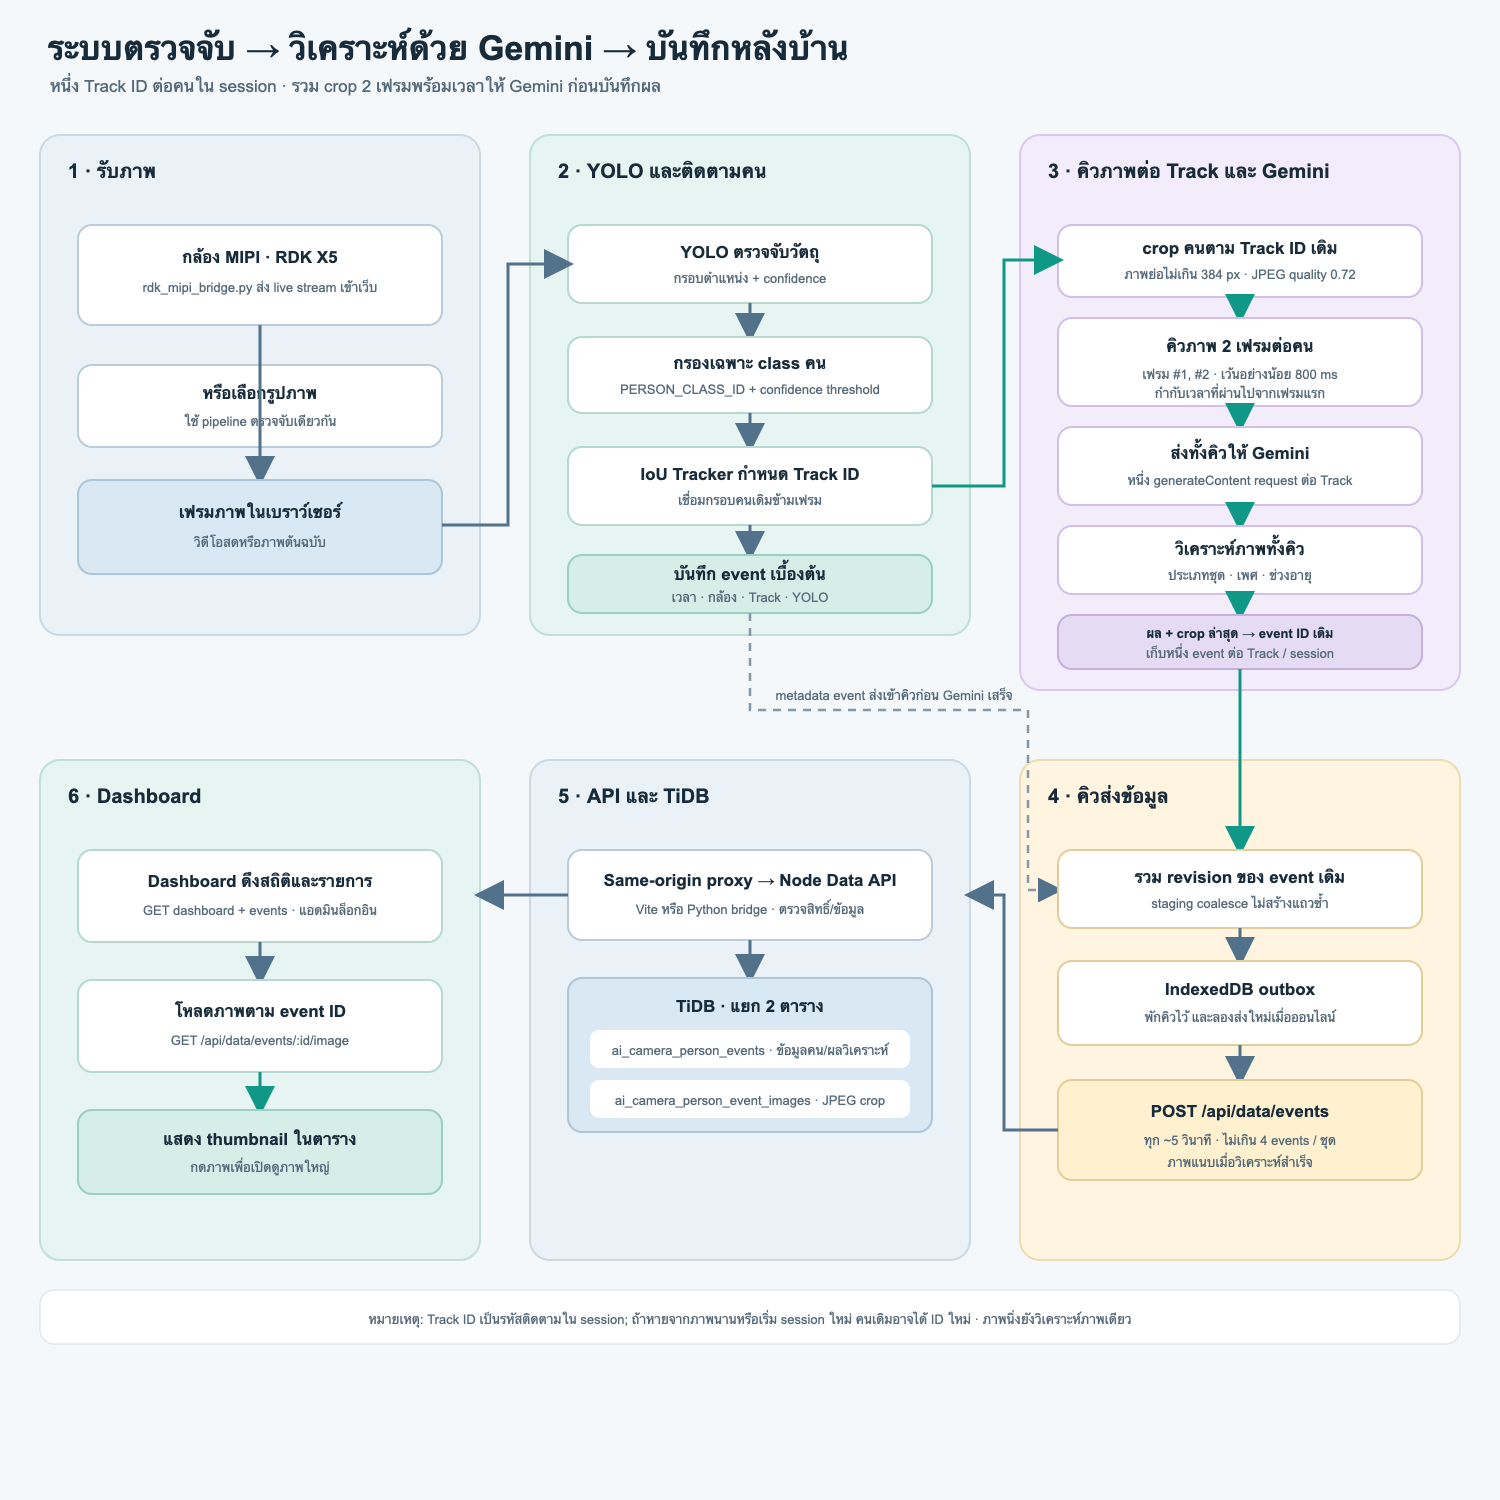
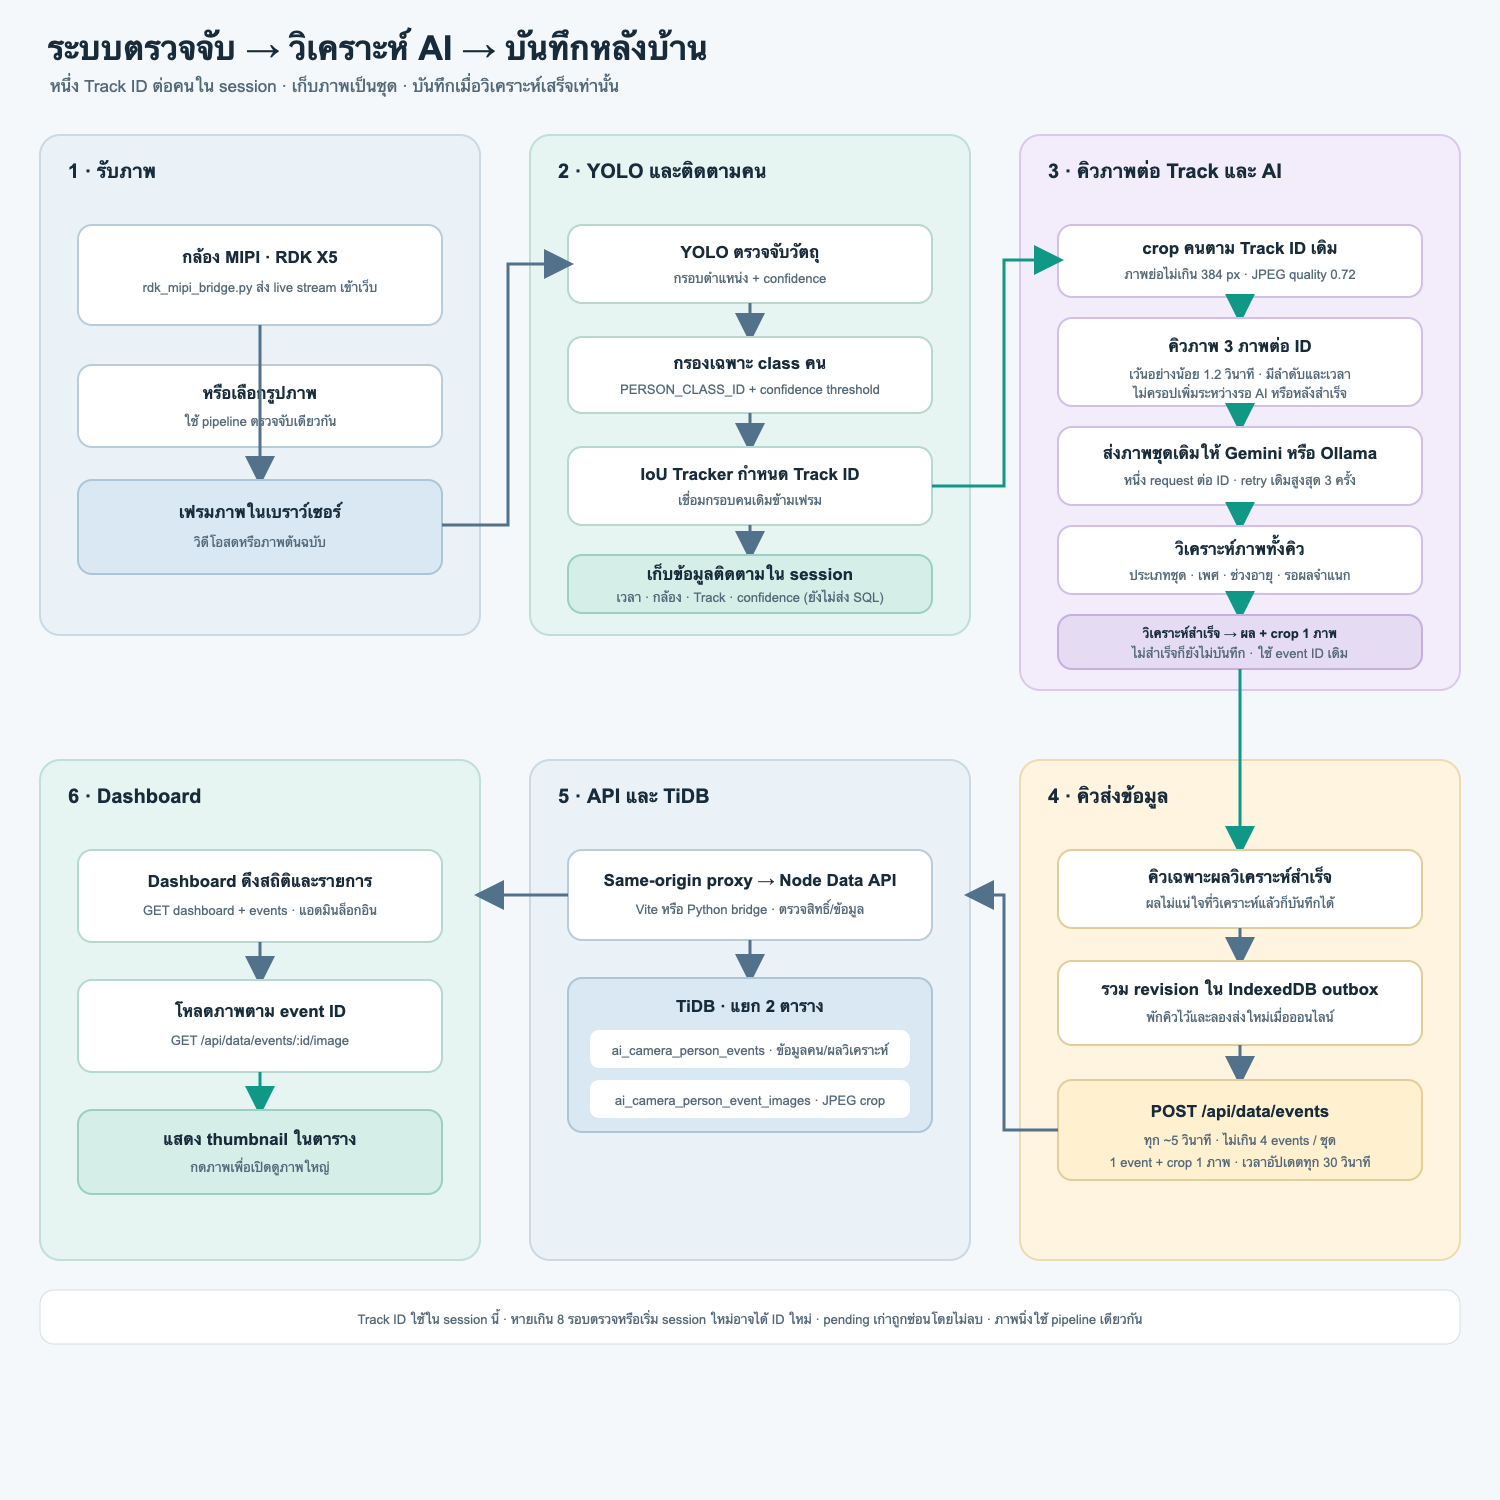
fixed:timed-out

diff --git a/src/App.tsx b/src/App.tsx
@@ -1050,23 +1050,34 @@ export default function App() {
     if (!cameraActive || cameraSource !== "rdk-mipi") return;
     let disposed = false;
     let timer: number;
+    let consecutiveFailures = 0;
+    let warningShown = false;
     const checkHealth = async () => {
       try {
         const response = await fetch("/api/mipi/status", {
-          signal: AbortSignal.timeout(5000), cache: "no-store",
+          signal: AbortSignal.timeout(8000), cache: "no-store",
         });
         if (!response.ok) throw new Error("ติดต่อบริการกล้อง MIPI ไม่ได้");
         const health = await response.json();
         if (disposed) return;
         if (health.state === "error" || health.state === "stopped") {
-          throw new Error(health.error || "กล้อง MIPI หยุดส่งภาพแล้ว");
+          stopCamera();
+          setStatus("error");
+          setErrorMsg(health.error || "กล้อง MIPI หยุดส่งภาพแล้ว");
+          return;
+        }
+        consecutiveFailures = 0;
+        if (health.state === "ready" && warningShown) {
+          warningShown = false;
+          setErrorMsg("");
         }
       } catch (error) {
         if (disposed) return;
-        stopCamera();
-        setStatus("error");
-        setErrorMsg(error instanceof Error ? error.message : "การเชื่อมต่อ MIPI ขาดหาย");
-        return;
+        consecutiveFailures++;
+        if (consecutiveFailures >= 3 && !warningShown) {
+          warningShown = true;
+          setErrorMsg("ติดต่อสถานะกล้อง MIPI ไม่สำเร็จชั่วคราว กำลังลองเชื่อมต่อใหม่");
+        }
       }
       if (!disposed) timer = window.setTimeout(checkHealth, 2000);
     };

diff --git a/scripts/rdk_mipi_bridge.py b/scripts/rdk_mipi_bridge.py
@@ -215,6 +215,11 @@ class MipiCameraFeed:
                 self.state = "starting" if attempt < 3 else "error"
                 self.error = reason
                 self.condition.notify_all()
+            print(
+                f"[mipi] capture worker stopped ({attempt + 1}/4): {reason}; "
+                f"state={self.state}",
+                flush=True,
+            )
             if attempt < 3:
                 self.stop_event.wait(0.5)
 
